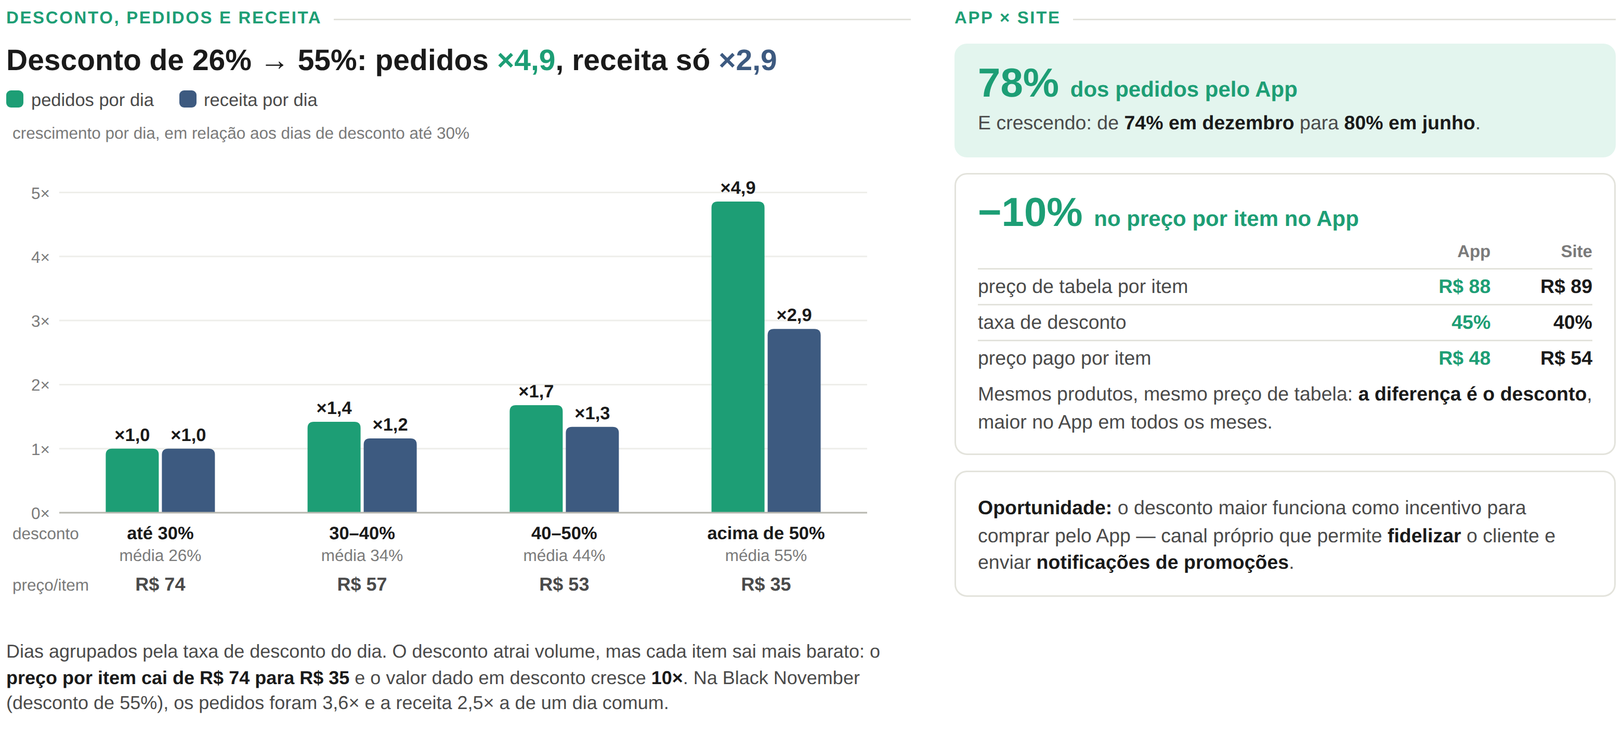
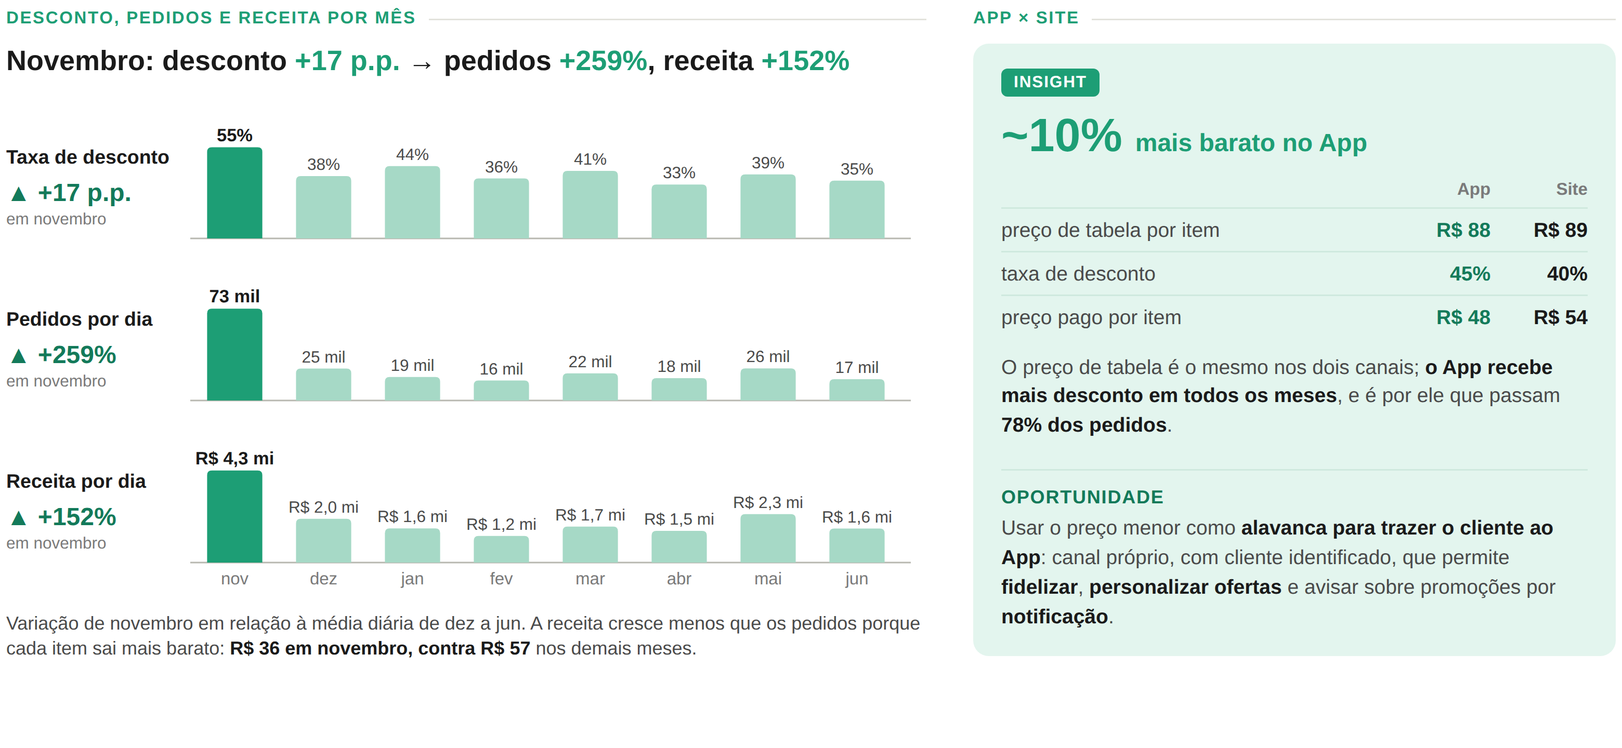
Widget de receita e desconto: série mensal com novembro em destaque e insight App × Site
Claude-Session: https://claude.ai/code/session_01NUJZKTcM8cs9QBTcUeuacF

diff --git a/apresentacao/widgets/03_desconto.html b/apresentacao/widgets/03_desconto.html
@@ -8,7 +8,7 @@
     --verde: #1d9e75;
     --verde-escuro: #137a5a;
     --verde-claro: #e3f5ee;
-    --azul: #3d5a80;
+    --verde-medio: #a6d9c6;
     --tinta: #1a1a1a;
     --tinta-2: #4a4a4a;
     --tinta-3: #7a7a7a;
@@ -20,76 +20,72 @@
     width: 1040px; height: 480px; background: var(--fundo);
     font-family: Arial, "Helvetica Neue", Helvetica, sans-serif; color: var(--tinta);
   }
-  .widget { display: grid; grid-template-columns: 580px 1fr; gap: 28px; height: 100%; padding: 6px 4px; }
+  .widget { display: grid; grid-template-columns: 590px 1fr; gap: 30px; height: 100%; padding: 6px 4px; }
   .rotulo {
     font-size: 11px; font-weight: 700; letter-spacing: .08em; text-transform: uppercase;
     color: var(--verde); margin-bottom: 10px; display: flex; align-items: center; gap: 8px;
   }
   .rotulo::after { content: ""; flex: 1; height: 1px; background: var(--linha); }
-  h3 { font-size: 19px; line-height: 1.25; font-weight: 700; margin-bottom: 4px; }
-  h3 .v { color: var(--verde); }
-  h3 .a { color: var(--azul); }
-  .legenda { display: flex; gap: 16px; font-size: 11.5px; color: var(--tinta-2); margin: 6px 0 2px; }
-  .legenda i { display: inline-block; width: 11px; height: 11px; border-radius: 3px; margin-right: 5px; vertical-align: -1px; }
-  .nota { font-size: 12px; color: var(--tinta-2); line-height: 1.4; margin-top: 2px; }
+  h3 { font-size: 18px; line-height: 1.25; font-weight: 700; margin-bottom: 12px; }
+  h3 span { color: var(--verde); }
+  .nota { font-size: 12px; color: var(--tinta-2); line-height: 1.4; margin-top: 8px; }
   .nota b { color: var(--tinta); }
 
   svg text { font-family: Arial, "Helvetica Neue", Helvetica, sans-serif; }
-  .grade { stroke: #eeeeea; }
   .base { stroke: #b8b8b0; }
-  .eixo { font-size: 10.5px; fill: var(--tinta-3); }
-  .b-ped { fill: var(--verde); }
-  .b-rec { fill: var(--azul); }
-  .valor { font-size: 11.5px; font-weight: 700; fill: var(--tinta); }
-  .cat { font-size: 11.5px; font-weight: 700; fill: var(--tinta); }
-  .sub { font-size: 10.5px; fill: var(--tinta-3); }
-  .preco { font-size: 12px; font-weight: 700; fill: var(--tinta-2); }
+  .b-mes { fill: var(--verde-medio); }
+  .b-nov { fill: var(--verde); }
+  .titulo-linha { font-size: 12.5px; font-weight: 700; fill: var(--tinta); }
+  .v-mes { font-size: 10.5px; fill: var(--tinta-2); }
+  .v-nov { font-size: 11.5px; font-weight: 700; fill: var(--tinta); }
+  .seta { font-size: 16px; font-weight: 700; fill: var(--verde-escuro); }
+  .seta-sub { font-size: 10.5px; fill: var(--tinta-3); }
+  .mes { font-size: 11px; fill: var(--tinta-3); }
 
-  .cards { display: grid; gap: 10px; }
-  .card { border: 1px solid var(--linha); border-radius: 8px; padding: 11px 14px; }
-  .card.destaque { background: var(--verde-claro); border-color: var(--verde-claro); }
-  .valor-g { font-size: 26px; font-weight: 700; color: var(--verde); line-height: 1.05; }
-  .valor-g small { font-size: 14px; }
-  .desc { font-size: 12.5px; color: var(--tinta-2); margin-top: 4px; line-height: 1.4; }
-  .desc b { color: var(--tinta); }
-  .comp { width: 100%; border-collapse: collapse; margin-top: 6px; font-size: 12.5px; }
-  .comp th { text-align: right; font-size: 11px; color: var(--tinta-3); font-weight: 700; padding: 0 0 4px; }
+  .insight { background: var(--verde-claro); border-radius: 10px; padding: 16px 18px; display: flex; flex-direction: column; }
+  .selo {
+    align-self: flex-start; font-size: 10.5px; font-weight: 700; letter-spacing: .06em; text-transform: uppercase;
+    color: #fff; background: var(--verde); border-radius: 4px; padding: 3px 8px; margin-bottom: 10px;
+  }
+  .valor-g { font-size: 30px; font-weight: 700; color: var(--verde); line-height: 1.05; }
+  .valor-g small { font-size: 16px; }
+  .comp { width: 100%; border-collapse: collapse; margin: 12px 0 10px; font-size: 13px; }
+  .comp th { text-align: right; font-size: 11px; color: var(--tinta-3); font-weight: 700; padding: 0 0 5px; }
   .comp th:first-child, .comp td:first-child { text-align: left; }
-  .comp td { padding: 4px 0; border-top: 1px solid var(--linha); text-align: right; color: var(--tinta-2); }
-  .comp td.app { color: var(--verde); font-weight: 700; }
+  .comp td { padding: 6px 0; border-top: 1px solid #cfe9de; text-align: right; color: var(--tinta-2); }
+  .comp td.app { color: var(--verde-escuro); font-weight: 700; }
   .comp td.site { color: var(--tinta); font-weight: 700; }
+  .texto { font-size: 13px; color: var(--tinta-2); line-height: 1.45; }
+  .texto b { color: var(--tinta); }
+  .oportunidade { margin-top: 18px; border-top: 1px solid #cfe9de; padding-top: 10px; }
+  .oportunidade .tit { font-size: 12px; font-weight: 700; color: var(--verde-escuro); text-transform: uppercase; letter-spacing: .05em; margin-bottom: 4px; }
 </style>
 </head>
 <body>
 <div class="widget">
 
   <section>
-    <div class="rotulo">Desconto, pedidos e receita</div>
-    <h3>Desconto de 26% → 55%: pedidos <span class="v">×4,9</span>, receita só <span class="a">×2,9</span></h3>
-    <div class="legenda"><span><i style="background:var(--verde)"></i>pedidos por dia</span><span><i style="background:var(--azul)"></i>receita por dia</span></div>
-    <svg viewBox="0 0 560 330" width="560" height="330"><line x1="34" x2="552" y1="256.0" y2="256.0" class="grade"/><text x="28" y="260.0" class="eixo" text-anchor="end">0×</text><line x1="34" x2="552" y1="214.9" y2="214.9" class="grade"/><text x="28" y="218.9" class="eixo" text-anchor="end">1×</text><line x1="34" x2="552" y1="173.8" y2="173.8" class="grade"/><text x="28" y="177.8" class="eixo" text-anchor="end">2×</text><line x1="34" x2="552" y1="132.7" y2="132.7" class="grade"/><text x="28" y="136.7" class="eixo" text-anchor="end">3×</text><line x1="34" x2="552" y1="91.6" y2="91.6" class="grade"/><text x="28" y="95.6" class="eixo" text-anchor="end">4×</text><line x1="34" x2="552" y1="50.5" y2="50.5" class="grade"/><text x="28" y="54.5" class="eixo" text-anchor="end">5×</text><path class="b-ped" d="M63.8,256 V218.9 Q63.8,214.9 67.8,214.9 H93.8 Q97.8,214.9 97.8,218.9 V256 Z"/><path class="b-rec" d="M99.8,256 V218.9 Q99.8,214.9 103.8,214.9 H129.8 Q133.8,214.9 133.8,218.9 V256 Z"/><text x="80.8" y="209.9" class="valor" text-anchor="middle">×1,0</text><text x="116.8" y="209.9" class="valor" text-anchor="middle">×1,0</text><text x="98.8" y="273" class="cat" text-anchor="middle">até 30%</text><text x="98.8" y="287" class="sub" text-anchor="middle">média 26%</text><text x="98.8" y="306" class="preco" text-anchor="middle">R$ 74</text><path class="b-ped" d="M193.2,256 V201.7 Q193.2,197.7 197.2,197.7 H223.2 Q227.2,197.7 227.2,201.7 V256 Z"/><path class="b-rec" d="M229.2,256 V212.3 Q229.2,208.3 233.2,208.3 H259.2 Q263.2,208.3 263.2,212.3 V256 Z"/><text x="210.2" y="192.7" class="valor" text-anchor="middle">×1,4</text><text x="246.2" y="203.3" class="valor" text-anchor="middle">×1,2</text><text x="228.2" y="273" class="cat" text-anchor="middle">30–40%</text><text x="228.2" y="287" class="sub" text-anchor="middle">média 34%</text><text x="228.2" y="306" class="preco" text-anchor="middle">R$ 57</text><path class="b-ped" d="M322.8,256 V191.0 Q322.8,187.0 326.8,187.0 H352.8 Q356.8,187.0 356.8,191.0 V256 Z"/><path class="b-rec" d="M358.8,256 V204.9 Q358.8,200.9 362.8,200.9 H388.8 Q392.8,200.9 392.8,204.9 V256 Z"/><text x="339.8" y="182.0" class="valor" text-anchor="middle">×1,7</text><text x="375.8" y="195.9" class="valor" text-anchor="middle">×1,3</text><text x="357.8" y="273" class="cat" text-anchor="middle">40–50%</text><text x="357.8" y="287" class="sub" text-anchor="middle">média 44%</text><text x="357.8" y="306" class="preco" text-anchor="middle">R$ 53</text><path class="b-ped" d="M452.2,256 V60.3 Q452.2,56.3 456.2,56.3 H482.2 Q486.2,56.3 486.2,60.3 V256 Z"/><path class="b-rec" d="M488.2,256 V142.1 Q488.2,138.1 492.2,138.1 H518.2 Q522.2,138.1 522.2,142.1 V256 Z"/><text x="469.2" y="51.3" class="valor" text-anchor="middle">×4,9</text><text x="505.2" y="133.1" class="valor" text-anchor="middle">×2,9</text><text x="487.2" y="273" class="cat" text-anchor="middle">acima de 50%</text><text x="487.2" y="287" class="sub" text-anchor="middle">média 55%</text><text x="487.2" y="306" class="preco" text-anchor="middle">R$ 35</text><line x1="34" x2="552" y1="256" y2="256" class="base"/><text x="4" y="306" class="sub">preço/item</text><text x="4" y="273" class="sub">desconto</text><text x="4" y="16" class="sub">crescimento por dia, em relação aos dias de desconto até 30%</text></svg>
-    <div class="nota">Dias agrupados pela taxa de desconto do dia. O desconto atrai volume, mas cada item sai mais barato: o <b>preço por item cai de R$ 74 para R$ 35</b> e o valor dado em desconto cresce <b>10×</b>. Na Black November (desconto de 55%), os pedidos foram 3,6× e a receita 2,5× a de um dia comum.</div>
+    <div class="rotulo">Desconto, pedidos e receita por mês</div>
+    <h3>Novembro: desconto <span>+17 p.p.</span> → pedidos <span>+259%</span>, receita <span>+152%</span></h3>
+    <svg viewBox="0 -4 580 316" width="580" height="316"><text x="0" y="38" class="titulo-linha">Taxa de desconto</text><text x="0" y="62" class="seta">▲ +17 p.p.</text><text x="0" y="77" class="seta-sub">em novembro</text><line x1="118" x2="580" y1="86" y2="86" class="base"/><path class="b-nov" d="M128.8,86 V30.5 Q128.8,27.5 131.8,27.5 H161.2 Q164.2,27.5 164.2,30.5 V86 Z"/><text x="146.5" y="23.5" class="v-nov" text-anchor="middle">55%</text><path class="b-mes" d="M185.8,86 V49.0 Q185.8,46.0 188.8,46.0 H218.2 Q221.2,46.0 221.2,49.0 V86 Z"/><text x="203.5" y="42.0" class="v-mes" text-anchor="middle">38%</text><path class="b-mes" d="M242.8,86 V42.6 Q242.8,39.6 245.8,39.6 H275.2 Q278.2,39.6 278.2,42.6 V86 Z"/><text x="260.5" y="35.6" class="v-mes" text-anchor="middle">44%</text><path class="b-mes" d="M299.8,86 V50.5 Q299.8,47.5 302.8,47.5 H332.2 Q335.2,47.5 335.2,50.5 V86 Z"/><text x="317.5" y="43.5" class="v-mes" text-anchor="middle">36%</text><path class="b-mes" d="M356.8,86 V45.7 Q356.8,42.7 359.8,42.7 H389.2 Q392.2,42.7 392.2,45.7 V86 Z"/><text x="374.5" y="38.7" class="v-mes" text-anchor="middle">41%</text><path class="b-mes" d="M413.8,86 V54.4 Q413.8,51.4 416.8,51.4 H446.2 Q449.2,51.4 449.2,54.4 V86 Z"/><text x="431.5" y="47.4" class="v-mes" text-anchor="middle">33%</text><path class="b-mes" d="M470.8,86 V47.9 Q470.8,44.9 473.8,44.9 H503.2 Q506.2,44.9 506.2,47.9 V86 Z"/><text x="488.5" y="40.9" class="v-mes" text-anchor="middle">39%</text><path class="b-mes" d="M527.8,86 V51.9 Q527.8,48.9 530.8,48.9 H560.2 Q563.2,48.9 563.2,51.9 V86 Z"/><text x="545.5" y="44.9" class="v-mes" text-anchor="middle">35%</text><text x="0" y="142" class="titulo-linha">Pedidos por dia</text><text x="0" y="166" class="seta">▲ +259%</text><text x="0" y="181" class="seta-sub">em novembro</text><line x1="118" x2="580" y1="190" y2="190" class="base"/><path class="b-nov" d="M128.8,190 V134.1 Q128.8,131.1 131.8,131.1 H161.2 Q164.2,131.1 164.2,134.1 V190 Z"/><text x="146.5" y="127.1" class="v-nov" text-anchor="middle">73 mil</text><path class="b-mes" d="M185.8,190 V172.5 Q185.8,169.5 188.8,169.5 H218.2 Q221.2,169.5 221.2,172.5 V190 Z"/><text x="203.5" y="165.5" class="v-mes" text-anchor="middle">25 mil</text><path class="b-mes" d="M242.8,190 V177.9 Q242.8,174.9 245.8,174.9 H275.2 Q278.2,174.9 278.2,177.9 V190 Z"/><text x="260.5" y="170.9" class="v-mes" text-anchor="middle">19 mil</text><path class="b-mes" d="M299.8,190 V180.2 Q299.8,177.2 302.8,177.2 H332.2 Q335.2,177.2 335.2,180.2 V190 Z"/><text x="317.5" y="173.2" class="v-mes" text-anchor="middle">16 mil</text><path class="b-mes" d="M356.8,190 V175.6 Q356.8,172.6 359.8,172.6 H389.2 Q392.2,172.6 392.2,175.6 V190 Z"/><text x="374.5" y="168.6" class="v-mes" text-anchor="middle">22 mil</text><path class="b-mes" d="M413.8,190 V178.7 Q413.8,175.7 416.8,175.7 H446.2 Q449.2,175.7 449.2,178.7 V190 Z"/><text x="431.5" y="171.7" class="v-mes" text-anchor="middle">18 mil</text><path class="b-mes" d="M470.8,190 V172.4 Q470.8,169.4 473.8,169.4 H503.2 Q506.2,169.4 506.2,172.4 V190 Z"/><text x="488.5" y="165.4" class="v-mes" text-anchor="middle">26 mil</text><path class="b-mes" d="M527.8,190 V179.3 Q527.8,176.3 530.8,176.3 H560.2 Q563.2,176.3 563.2,179.3 V190 Z"/><text x="545.5" y="172.3" class="v-mes" text-anchor="middle">17 mil</text><text x="0" y="246" class="titulo-linha">Receita por dia</text><text x="0" y="270" class="seta">▲ +152%</text><text x="0" y="285" class="seta-sub">em novembro</text><line x1="118" x2="580" y1="294" y2="294" class="base"/><path class="b-nov" d="M128.8,294 V237.9 Q128.8,234.9 131.8,234.9 H161.2 Q164.2,234.9 164.2,237.9 V294 Z"/><text x="146.5" y="230.9" class="v-nov" text-anchor="middle">R$ 4,3 mi</text><path class="b-mes" d="M185.8,294 V268.9 Q185.8,265.9 188.8,265.9 H218.2 Q221.2,265.9 221.2,268.9 V294 Z"/><text x="203.5" y="261.9" class="v-mes" text-anchor="middle">R$ 2,0 mi</text><path class="b-mes" d="M242.8,294 V275.1 Q242.8,272.1 245.8,272.1 H275.2 Q278.2,272.1 278.2,275.1 V294 Z"/><text x="260.5" y="268.1" class="v-mes" text-anchor="middle">R$ 1,6 mi</text><path class="b-mes" d="M299.8,294 V279.9 Q299.8,276.9 302.8,276.9 H332.2 Q335.2,276.9 335.2,279.9 V294 Z"/><text x="317.5" y="272.9" class="v-mes" text-anchor="middle">R$ 1,2 mi</text><path class="b-mes" d="M356.8,294 V273.9 Q356.8,270.9 359.8,270.9 H389.2 Q392.2,270.9 392.2,273.9 V294 Z"/><text x="374.5" y="266.9" class="v-mes" text-anchor="middle">R$ 1,7 mi</text><path class="b-mes" d="M413.8,294 V276.7 Q413.8,273.7 416.8,273.7 H446.2 Q449.2,273.7 449.2,276.7 V294 Z"/><text x="431.5" y="269.7" class="v-mes" text-anchor="middle">R$ 1,5 mi</text><path class="b-mes" d="M470.8,294 V265.9 Q470.8,262.9 473.8,262.9 H503.2 Q506.2,262.9 506.2,265.9 V294 Z"/><text x="488.5" y="258.9" class="v-mes" text-anchor="middle">R$ 2,3 mi</text><path class="b-mes" d="M527.8,294 V275.2 Q527.8,272.2 530.8,272.2 H560.2 Q563.2,272.2 563.2,275.2 V294 Z"/><text x="545.5" y="268.2" class="v-mes" text-anchor="middle">R$ 1,6 mi</text><text x="146.5" y="308" class="mes" text-anchor="middle">nov</text><text x="203.5" y="308" class="mes" text-anchor="middle">dez</text><text x="260.5" y="308" class="mes" text-anchor="middle">jan</text><text x="317.5" y="308" class="mes" text-anchor="middle">fev</text><text x="374.5" y="308" class="mes" text-anchor="middle">mar</text><text x="431.5" y="308" class="mes" text-anchor="middle">abr</text><text x="488.5" y="308" class="mes" text-anchor="middle">mai</text><text x="545.5" y="308" class="mes" text-anchor="middle">jun</text></svg>
+    <div class="nota">Variação de novembro em relação à média diária de dez a jun. A receita cresce menos que os pedidos porque cada item sai mais barato: <b>R$ 36 em novembro, contra R$ 57</b> nos demais meses.</div>
   </section>
 
   <section>
     <div class="rotulo">App × Site</div>
-    <div class="cards">
-      <div class="card destaque">
-        <div class="valor-g">78% <small>dos pedidos pelo App</small></div>
-        <div class="desc">E crescendo: de <b>74% em dezembro</b> para <b>80% em junho</b>.</div>
-      </div>
-      <div class="card">
-        <div class="valor-g">−10% <small>no preço por item no App</small></div>
-        <table class="comp">
-          <tr><th></th><th>App</th><th>Site</th></tr>
-          <tr><td>preço de tabela por item</td><td class="app">R$ 88</td><td class="site">R$ 89</td></tr>
-          <tr><td>taxa de desconto</td><td class="app">45%</td><td class="site">40%</td></tr>
-          <tr><td>preço pago por item</td><td class="app">R$ 48</td><td class="site">R$ 54</td></tr>
-        </table>
-        <div class="desc">Mesmos produtos, mesmo preço de tabela: <b>a diferença é o desconto</b>, maior no App em todos os meses.</div>
-      </div>
-      <div class="card">
-        <div class="desc"><b>Oportunidade:</b> o desconto maior funciona como incentivo para comprar pelo App — canal próprio que permite <b>fidelizar</b> o cliente e enviar <b>notificações de promoções</b>.</div>
+    <div class="insight">
+      <span class="selo">Insight</span>
+      <div class="valor-g">~10% <small>mais barato no App</small></div>
+      <table class="comp">
+        <tr><th></th><th>App</th><th>Site</th></tr>
+        <tr><td>preço de tabela por item</td><td class="app">R$ 88</td><td class="site">R$ 89</td></tr>
+        <tr><td>taxa de desconto</td><td class="app">45%</td><td class="site">40%</td></tr>
+        <tr><td>preço pago por item</td><td class="app">R$ 48</td><td class="site">R$ 54</td></tr>
+      </table>
+      <div class="texto">O preço de tabela é o mesmo nos dois canais; <b>o App recebe mais desconto em todos os meses</b>, e é por ele que passam <b>78% dos pedidos</b>.</div>
+      <div class="oportunidade">
+        <div class="tit">Oportunidade</div>
+        <div class="texto">Usar o preço menor como <b>alavanca para trazer o cliente ao App</b>: canal próprio, com cliente identificado, que permite <b>fidelizar</b>, <b>personalizar ofertas</b> e avisar sobre promoções por <b>notificação</b>.</div>
       </div>
     </div>
   </section>

diff --git a/apresentacao/geradores/03_desconto_modelo.html b/apresentacao/geradores/03_desconto_modelo.html
@@ -8,7 +8,7 @@
     --verde: #1d9e75;
     --verde-escuro: #137a5a;
     --verde-claro: #e3f5ee;
-    --azul: #3d5a80;
+    --verde-medio: #a6d9c6;
     --tinta: #1a1a1a;
     --tinta-2: #4a4a4a;
     --tinta-3: #7a7a7a;
@@ -20,76 +20,72 @@
     width: 1040px; height: 480px; background: var(--fundo);
     font-family: Arial, "Helvetica Neue", Helvetica, sans-serif; color: var(--tinta);
   }
-  .widget { display: grid; grid-template-columns: 580px 1fr; gap: 28px; height: 100%; padding: 6px 4px; }
+  .widget { display: grid; grid-template-columns: 590px 1fr; gap: 30px; height: 100%; padding: 6px 4px; }
   .rotulo {
     font-size: 11px; font-weight: 700; letter-spacing: .08em; text-transform: uppercase;
     color: var(--verde); margin-bottom: 10px; display: flex; align-items: center; gap: 8px;
   }
   .rotulo::after { content: ""; flex: 1; height: 1px; background: var(--linha); }
-  h3 { font-size: 19px; line-height: 1.25; font-weight: 700; margin-bottom: 4px; }
-  h3 .v { color: var(--verde); }
-  h3 .a { color: var(--azul); }
-  .legenda { display: flex; gap: 16px; font-size: 11.5px; color: var(--tinta-2); margin: 6px 0 2px; }
-  .legenda i { display: inline-block; width: 11px; height: 11px; border-radius: 3px; margin-right: 5px; vertical-align: -1px; }
-  .nota { font-size: 12px; color: var(--tinta-2); line-height: 1.4; margin-top: 2px; }
+  h3 { font-size: 18px; line-height: 1.25; font-weight: 700; margin-bottom: 12px; }
+  h3 span { color: var(--verde); }
+  .nota { font-size: 12px; color: var(--tinta-2); line-height: 1.4; margin-top: 8px; }
   .nota b { color: var(--tinta); }
 
   svg text { font-family: Arial, "Helvetica Neue", Helvetica, sans-serif; }
-  .grade { stroke: #eeeeea; }
   .base { stroke: #b8b8b0; }
-  .eixo { font-size: 10.5px; fill: var(--tinta-3); }
-  .b-ped { fill: var(--verde); }
-  .b-rec { fill: var(--azul); }
-  .valor { font-size: 11.5px; font-weight: 700; fill: var(--tinta); }
-  .cat { font-size: 11.5px; font-weight: 700; fill: var(--tinta); }
-  .sub { font-size: 10.5px; fill: var(--tinta-3); }
-  .preco { font-size: 12px; font-weight: 700; fill: var(--tinta-2); }
+  .b-mes { fill: var(--verde-medio); }
+  .b-nov { fill: var(--verde); }
+  .titulo-linha { font-size: 12.5px; font-weight: 700; fill: var(--tinta); }
+  .v-mes { font-size: 10.5px; fill: var(--tinta-2); }
+  .v-nov { font-size: 11.5px; font-weight: 700; fill: var(--tinta); }
+  .seta { font-size: 16px; font-weight: 700; fill: var(--verde-escuro); }
+  .seta-sub { font-size: 10.5px; fill: var(--tinta-3); }
+  .mes { font-size: 11px; fill: var(--tinta-3); }
 
-  .cards { display: grid; gap: 10px; }
-  .card { border: 1px solid var(--linha); border-radius: 8px; padding: 11px 14px; }
-  .card.destaque { background: var(--verde-claro); border-color: var(--verde-claro); }
-  .valor-g { font-size: 26px; font-weight: 700; color: var(--verde); line-height: 1.05; }
-  .valor-g small { font-size: 14px; }
-  .desc { font-size: 12.5px; color: var(--tinta-2); margin-top: 4px; line-height: 1.4; }
-  .desc b { color: var(--tinta); }
-  .comp { width: 100%; border-collapse: collapse; margin-top: 6px; font-size: 12.5px; }
-  .comp th { text-align: right; font-size: 11px; color: var(--tinta-3); font-weight: 700; padding: 0 0 4px; }
+  .insight { background: var(--verde-claro); border-radius: 10px; padding: 16px 18px; display: flex; flex-direction: column; }
+  .selo {
+    align-self: flex-start; font-size: 10.5px; font-weight: 700; letter-spacing: .06em; text-transform: uppercase;
+    color: #fff; background: var(--verde); border-radius: 4px; padding: 3px 8px; margin-bottom: 10px;
+  }
+  .valor-g { font-size: 30px; font-weight: 700; color: var(--verde); line-height: 1.05; }
+  .valor-g small { font-size: 16px; }
+  .comp { width: 100%; border-collapse: collapse; margin: 12px 0 10px; font-size: 13px; }
+  .comp th { text-align: right; font-size: 11px; color: var(--tinta-3); font-weight: 700; padding: 0 0 5px; }
   .comp th:first-child, .comp td:first-child { text-align: left; }
-  .comp td { padding: 4px 0; border-top: 1px solid var(--linha); text-align: right; color: var(--tinta-2); }
-  .comp td.app { color: var(--verde); font-weight: 700; }
+  .comp td { padding: 6px 0; border-top: 1px solid #cfe9de; text-align: right; color: var(--tinta-2); }
+  .comp td.app { color: var(--verde-escuro); font-weight: 700; }
   .comp td.site { color: var(--tinta); font-weight: 700; }
+  .texto { font-size: 13px; color: var(--tinta-2); line-height: 1.45; }
+  .texto b { color: var(--tinta); }
+  .oportunidade { margin-top: 18px; border-top: 1px solid #cfe9de; padding-top: 10px; }
+  .oportunidade .tit { font-size: 12px; font-weight: 700; color: var(--verde-escuro); text-transform: uppercase; letter-spacing: .05em; margin-bottom: 4px; }
 </style>
 </head>
 <body>
 <div class="widget">
 
   <section>
-    <div class="rotulo">Desconto, pedidos e receita</div>
-    <h3>Desconto de 26% → 55%: pedidos <span class="v">×4,9</span>, receita só <span class="a">×2,9</span></h3>
-    <div class="legenda"><span><i style="background:var(--verde)"></i>pedidos por dia</span><span><i style="background:var(--azul)"></i>receita por dia</span></div>
+    <div class="rotulo">Desconto, pedidos e receita por mês</div>
+    <h3>Novembro: desconto <span>+17 p.p.</span> → pedidos <span>+259%</span>, receita <span>+152%</span></h3>
     {{GRAFICO}}
-    <div class="nota">Dias agrupados pela taxa de desconto do dia. O desconto atrai volume, mas cada item sai mais barato: o <b>preço por item cai de R$ 74 para R$ 35</b> e o valor dado em desconto cresce <b>10×</b>. Na Black November (desconto de 55%), os pedidos foram 3,6× e a receita 2,5× a de um dia comum.</div>
+    <div class="nota">Variação de novembro em relação à média diária de dez a jun. A receita cresce menos que os pedidos porque cada item sai mais barato: <b>R$ 36 em novembro, contra R$ 57</b> nos demais meses.</div>
   </section>
 
   <section>
     <div class="rotulo">App × Site</div>
-    <div class="cards">
-      <div class="card destaque">
-        <div class="valor-g">78% <small>dos pedidos pelo App</small></div>
-        <div class="desc">E crescendo: de <b>74% em dezembro</b> para <b>80% em junho</b>.</div>
-      </div>
-      <div class="card">
-        <div class="valor-g">−10% <small>no preço por item no App</small></div>
-        <table class="comp">
-          <tr><th></th><th>App</th><th>Site</th></tr>
-          <tr><td>preço de tabela por item</td><td class="app">R$ 88</td><td class="site">R$ 89</td></tr>
-          <tr><td>taxa de desconto</td><td class="app">45%</td><td class="site">40%</td></tr>
-          <tr><td>preço pago por item</td><td class="app">R$ 48</td><td class="site">R$ 54</td></tr>
-        </table>
-        <div class="desc">Mesmos produtos, mesmo preço de tabela: <b>a diferença é o desconto</b>, maior no App em todos os meses.</div>
-      </div>
-      <div class="card">
-        <div class="desc"><b>Oportunidade:</b> o desconto maior funciona como incentivo para comprar pelo App — canal próprio que permite <b>fidelizar</b> o cliente e enviar <b>notificações de promoções</b>.</div>
+    <div class="insight">
+      <span class="selo">Insight</span>
+      <div class="valor-g">~10% <small>mais barato no App</small></div>
+      <table class="comp">
+        <tr><th></th><th>App</th><th>Site</th></tr>
+        <tr><td>preço de tabela por item</td><td class="app">R$ 88</td><td class="site">R$ 89</td></tr>
+        <tr><td>taxa de desconto</td><td class="app">45%</td><td class="site">40%</td></tr>
+        <tr><td>preço pago por item</td><td class="app">R$ 48</td><td class="site">R$ 54</td></tr>
+      </table>
+      <div class="texto">O preço de tabela é o mesmo nos dois canais; <b>o App recebe mais desconto em todos os meses</b>, e é por ele que passam <b>78% dos pedidos</b>.</div>
+      <div class="oportunidade">
+        <div class="tit">Oportunidade</div>
+        <div class="texto">Usar o preço menor como <b>alavanca para trazer o cliente ao App</b>: canal próprio, com cliente identificado, que permite <b>fidelizar</b>, <b>personalizar ofertas</b> e avisar sobre promoções por <b>notificação</b>.</div>
       </div>
     </div>
   </section>

diff --git a/apresentacao/geradores/03_desconto.py b/apresentacao/geradores/03_desconto.py
@@ -1,56 +1,60 @@
-"""Gera o widget 03_desconto.html: desconto × pedidos × receita e App × Site.
+"""Gera o widget 03_desconto.html: desconto, pedidos e receita por mês (novembro em destaque) e App × Site.
 
-Números conferidos no BigQuery (fact_vendas, médias diárias por faixa de desconto do dia).
+Dados mensais em mensal_desconto.csv (consulta no BigQuery: pedidos, receita e desconto por mês).
 """
 import sys
 from pathlib import Path
 
-destino = Path(sys.argv[1])
+import pandas as pd
 
-# faixa: (rótulo, desconto médio, pedidos ×, receita ×, preço por item)
-faixas = [
-    ("até 30%", "26%", 1.00, 1.00, "R$ 74"),
-    ("30–40%", "34%", 1.42, 1.16, "R$ 57"),
-    ("40–50%", "44%", 1.68, 1.34, "R$ 53"),
-    ("acima de 50%", "55%", 4.86, 2.87, "R$ 35"),
+mensal = pd.read_csv(sys.argv[1])
+destino = Path(sys.argv[2])
+nomes = {"2025-11": "nov", "2025-12": "dez", "2026-01": "jan", "2026-02": "fev",
+         "2026-03": "mar", "2026-04": "abr", "2026-05": "mai", "2026-06": "jun"}
+
+nov = mensal[mensal["mes"] == "2025-11"].iloc[0]
+demais = mensal[mensal["mes"] != "2025-11"]
+tx_demais = demais["des"].sum() / (demais["rec"].sum() + demais["des"].sum())
+ped_demais = demais["ped"].sum() / demais["dias"].sum()
+rec_demais = demais["rec"].sum() / demais["dias"].sum()
+
+linhas = [
+    ("Taxa de desconto", "tx", lambda v: f"{v:.0%}", f"+{100 * (nov['tx'] - tx_demais):.0f} p.p.", 0.62),
+    ("Pedidos por dia", "ped_dia", lambda v: f"{v / 1e3:.0f} mil", f"+{100 * (nov['ped_dia'] / ped_demais - 1):.0f}%", 82_000),
+    ("Receita por dia", "rec_dia", lambda v: f"R$ {v / 1e6:.1f} mi".replace(".", ","), f"+{100 * (nov['rec_dia'] / rec_demais - 1):.0f}%", 4.8e6),
 ]
-W, H = 560, 330
-ML, MR, MT, MB = 34, 8, 30, 74
-pw, ph = W - ML - MR, H - MT - MB
-ymax = 5.5
-y = lambda v: MT + ph - v / ymax * ph
-grupo = pw / len(faixas)
-larg = 34
+
+W, H_LINHA, TOPO_ROT = 580, 104, 16
+ML = 118
+n = len(mensal)
+passo = (W - ML - 6) / n
+larg = passo * 0.62
 partes = []
-for v in [0, 1, 2, 3, 4, 5]:
-    partes.append(f'<line x1="{ML}" x2="{W-MR}" y1="{y(v):.1f}" y2="{y(v):.1f}" class="grade"/>')
-    partes.append(f'<text x="{ML-6}" y="{y(v)+4:.1f}" class="eixo" text-anchor="end">{v}×</text>')
-
-
-def barra(x, valor, classe):
-    topo = y(valor)
-    base = MT + ph
-    return (f'<path class="{classe}" d="M{x:.1f},{base} V{topo+4:.1f} Q{x:.1f},{topo:.1f} {x+4:.1f},{topo:.1f} '
-            f'H{x+larg-4:.1f} Q{x+larg:.1f},{topo:.1f} {x+larg:.1f},{topo+4:.1f} V{base} Z"/>')
-
-
-for i, (rot, tx, ped, rec, preco) in enumerate(faixas):
-    cx = ML + grupo * i + grupo / 2
-    x1, x2 = cx - larg - 1, cx + 1
-    partes.append(barra(x1, ped, "b-ped"))
-    partes.append(barra(x2, rec, "b-rec"))
-    for x, v in [(x1, ped), (x2, rec)]:
-        rotulo_valor = f"×{v:.1f}".replace(".", ",")
-        partes.append(f'<text x="{x+larg/2:.1f}" y="{y(v)-5:.1f}" class="valor" text-anchor="middle">{rotulo_valor}</text>')
-    partes.append(f'<text x="{cx:.1f}" y="{MT+ph+17}" class="cat" text-anchor="middle">{rot}</text>')
-    partes.append(f'<text x="{cx:.1f}" y="{MT+ph+31}" class="sub" text-anchor="middle">média {tx}</text>')
-    partes.append(f'<text x="{cx:.1f}" y="{MT+ph+50}" class="preco" text-anchor="middle">{preco}</text>')
-partes.append(f'<line x1="{ML}" x2="{W-MR}" y1="{MT+ph}" y2="{MT+ph}" class="base"/>')
-partes.append(f'<text x="{ML-30}" y="{MT+ph+50}" class="sub">preço/item</text>')
-partes.append(f'<text x="{ML-30}" y="{MT+ph+17}" class="sub">desconto</text>')
-partes.append(f'<text x="{ML-30}" y="{MT-14}" class="sub">crescimento por dia, em relação aos dias de desconto até 30%</text>')
-svg = f'<svg viewBox="0 0 {W} {H}" width="{W}" height="{H}">' + "".join(partes) + "</svg>"
+for k, (titulo, coluna, fmt, variacao, ymax) in enumerate(linhas):
+    y0 = k * H_LINHA
+    base = y0 + H_LINHA - 18
+    altura_max = H_LINHA - 18 - TOPO_ROT - 4
+    partes.append(f'<text x="0" y="{y0 + 38}" class="titulo-linha">{titulo}</text>')
+    partes.append(f'<text x="0" y="{y0 + 62}" class="seta">▲ {variacao}</text>')
+    partes.append(f'<text x="0" y="{y0 + 77}" class="seta-sub">em novembro</text>')
+    partes.append(f'<line x1="{ML}" x2="{W}" y1="{base}" y2="{base}" class="base"/>')
+    for i, r in mensal.iterrows():
+        x = ML + i * passo + (passo - larg) / 2
+        h = r[coluna] / ymax * altura_max
+        topo = base - h
+        classe = "b-nov" if r["mes"] == "2025-11" else "b-mes"
+        partes.append(
+            f'<path class="{classe}" d="M{x:.1f},{base} V{topo + 3:.1f} Q{x:.1f},{topo:.1f} {x + 3:.1f},{topo:.1f} '
+            f'H{x + larg - 3:.1f} Q{x + larg:.1f},{topo:.1f} {x + larg:.1f},{topo + 3:.1f} V{base} Z"/>'
+        )
+        partes.append(f'<text x="{x + larg / 2:.1f}" y="{topo - 4:.1f}" class="{"v-nov" if classe == "b-nov" else "v-mes"}" '
+                      f'text-anchor="middle">{fmt(r[coluna])}</text>')
+    if k == len(linhas) - 1:
+        for i, r in mensal.iterrows():
+            partes.append(f'<text x="{ML + i * passo + passo / 2:.1f}" y="{base + 14}" class="mes" text-anchor="middle">{nomes[r["mes"]]}</text>')
+H = len(linhas) * H_LINHA
+svg = f'<svg viewBox="0 -4 {W} {H + 4}" width="{W}" height="{H + 4}">' + "".join(partes) + "</svg>"
 
 modelo = Path(__file__).with_name("03_desconto_modelo.html").read_text(encoding="utf-8")
 destino.write_text(modelo.replace("{{GRAFICO}}", svg), encoding="utf-8")
-print("ok", destino)
+print("ok", destino, {"tx_demais": round(tx_demais, 3), "ped_demais": round(ped_demais), "rec_demais": round(rec_demais)})
